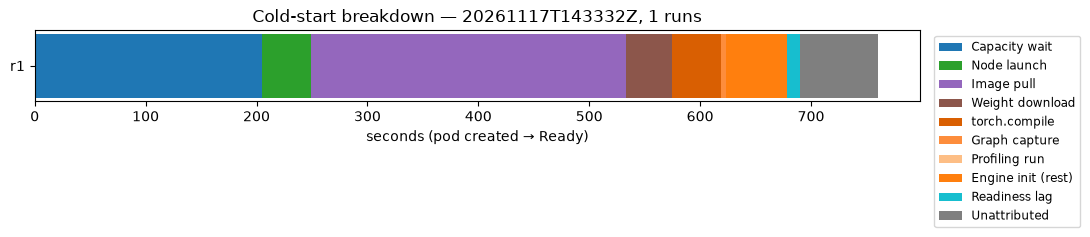
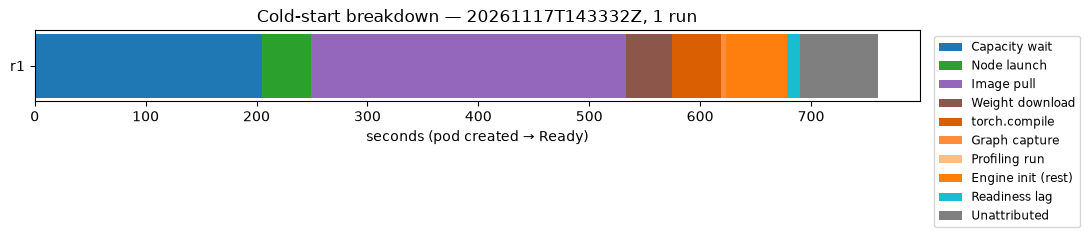
fix(report): title a one-run cold-start chart in the singular
The chart's title read "1 runs" for a single run. It now says "1 run",
and the baseline's chart is re-rendered with it.

Refs #541

Changed region(s): [[0.2183, 0.0295, 0.655, 0.1181]]

diff --git a/tests/report/test_cold_start_plotters.py b/tests/report/test_cold_start_plotters.py
@@ -85,6 +85,14 @@ def test_the_title_names_the_run_id_and_its_run_count() -> None:
         plt.close(figure)
 
 
+def test_the_title_counts_a_single_run_in_the_singular() -> None:
+    figure = _plot_cold_start([build_breakdown(1)], run_id="cs-1")
+    try:
+        assert figure.axes[0].get_title() == "Cold-start breakdown — cs-1, 1 run"
+    finally:
+        plt.close(figure)
+
+
 def test_engine_init_detail_over_engine_init_by_its_rounding_draws_no_rest() -> None:
     # 44.91 + 4 + 0.1 s of detail in 49 s of engine init: graph capture is logged to the
     # whole second, so its rounding, not a misread marker, leaves no rest to draw.

diff --git a/packages/report/src/slipstream_bench/report/cold_start_plotters.py b/packages/report/src/slipstream_bench/report/cold_start_plotters.py
@@ -88,7 +88,8 @@ def _plot_cold_start(breakdowns: list[ColdStartBreakdown], *, run_id: str) -> Fi
         starts = [start + width for start, width in zip(starts, widths, strict=True)]
     ax.invert_yaxis()
     ax.set_xlabel("seconds (pod created → Ready)")
-    ax.set_title(f"Cold-start breakdown — {run_id}, {len(ordered)} runs")
+    runs_label = "run" if len(ordered) == 1 else "runs"
+    ax.set_title(f"Cold-start breakdown — {run_id}, {len(ordered)} {runs_label}")
     ax.legend(loc="upper left", bbox_to_anchor=(1.01, 1.0), fontsize="small")
     figure.tight_layout()
     return figure
